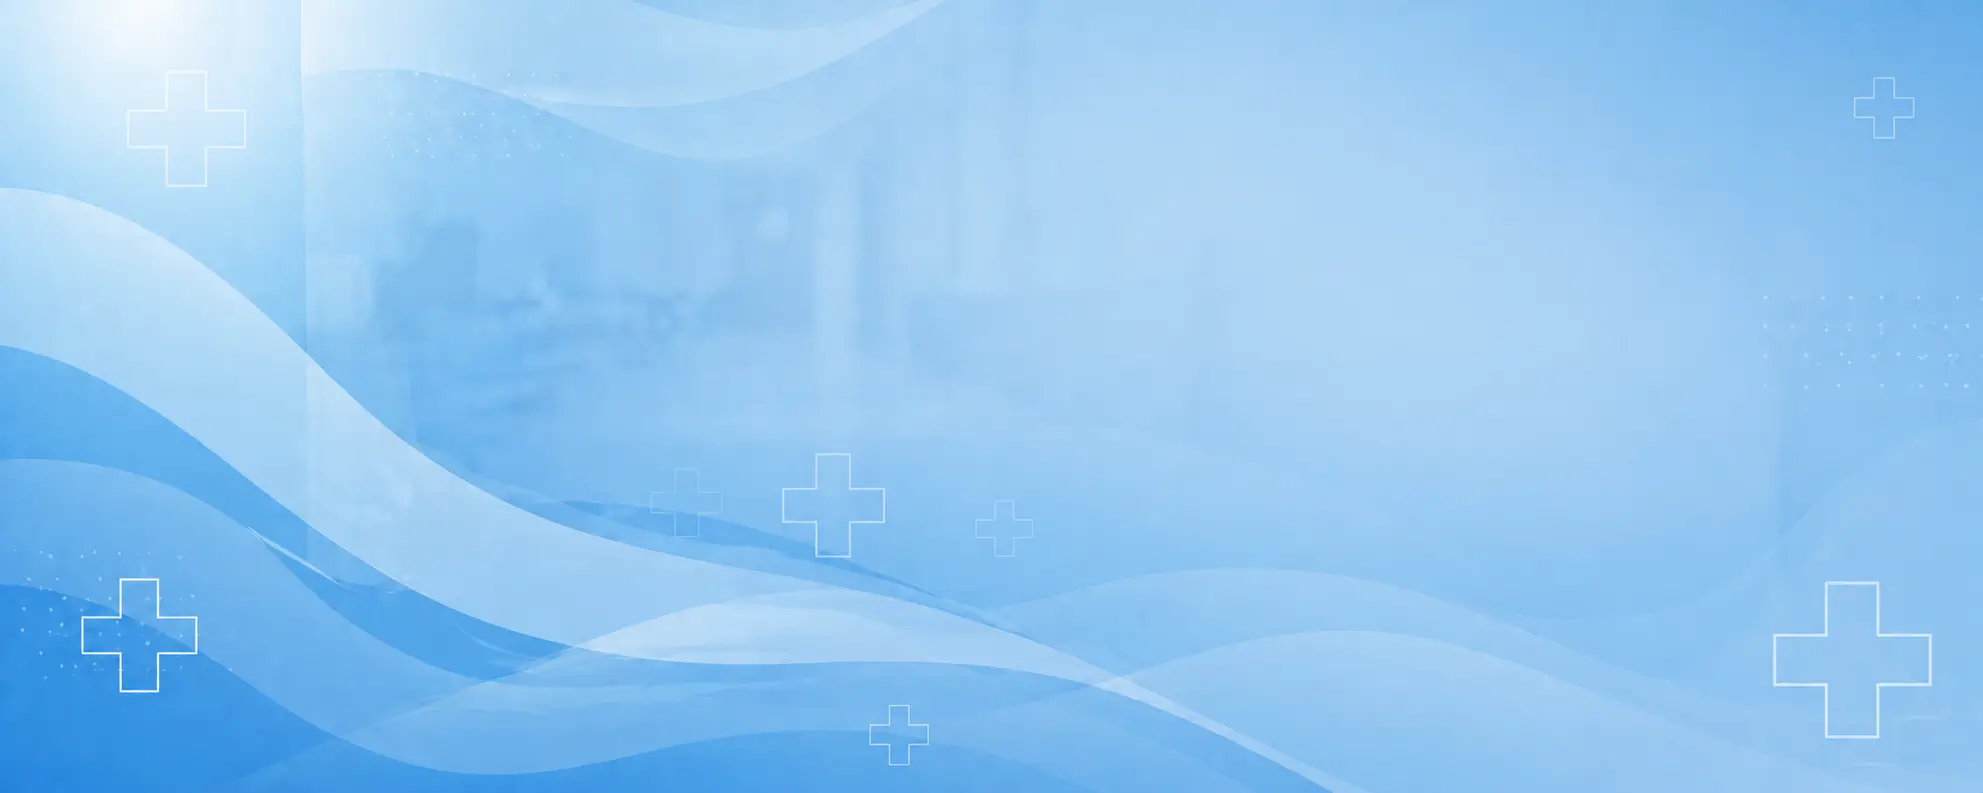
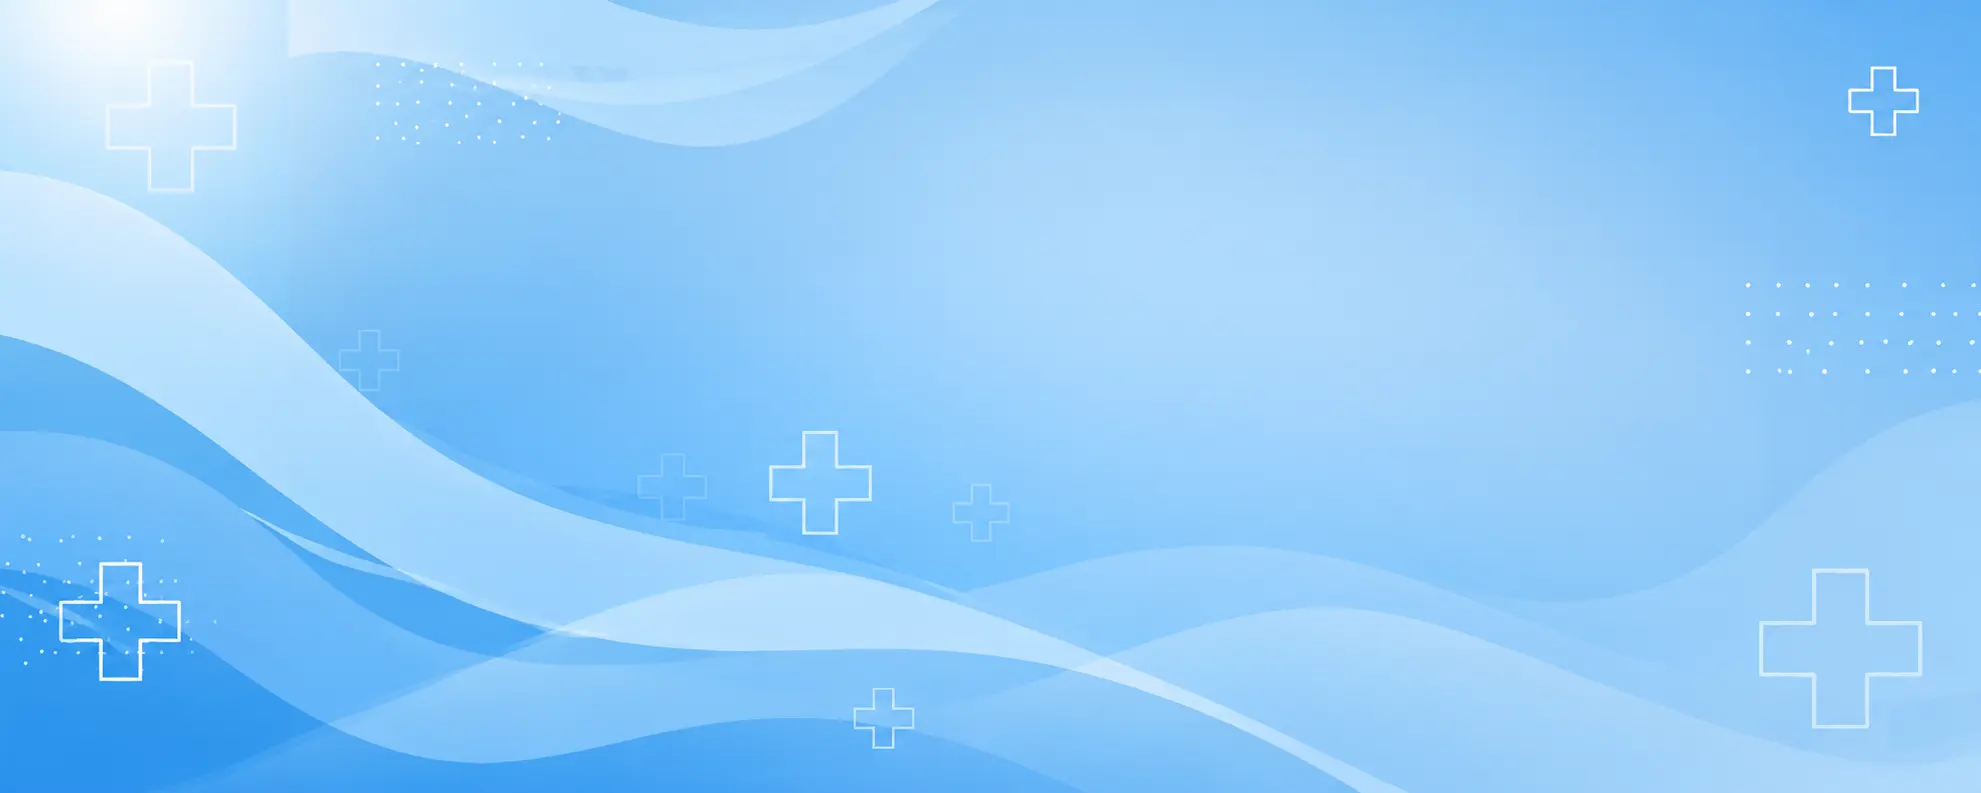
CSS boton inicial + hero3

diff --git a/web/css/home.css b/web/css/home.css
@@ -3,9 +3,9 @@ body{
  }
 
 .navbar{
-    background-color: #ffffff;
-    box-shadow: 0 2px 4px 0 rgba(0, 0, .05);
-    min-height: 100px;
+  background-color: #ffffff;
+  box-shadow: 0 2px 4px 0 rgba(0, 0, .05);
+  min-height: 100px;
 }
 
 .logo{
@@ -14,7 +14,9 @@ body{
 }
 
 #portada{
-    background-image: url(../img/wallpapers/hero1.webp);
+    background:
+        linear-gradient(rgba(0,0,0,0.25), rgba(0,0,0,0.25)),
+        url(../img/wallpapers/hero1.webp);
     background-size: cover;
     color: #ffffff;
     height: 550px;
@@ -22,6 +24,17 @@ body{
     position: relative;
 }
 
+.hero-title span{
+    color: #3090C7;
+}
+
+.hero-title{
+    font-size: 72px;
+    font-weight: 700;
+    line-height: 1.1;
+    margin-bottom: 30px;
+    text-shadow: 2px 2px 4px rgba(0, 0, 0, 0.6);
+}
 
 #portada:before {
     content:'';
@@ -31,7 +44,6 @@ body{
     left: 0;
     right: 0;
     height: 550px;
-    background-color: rgba(0,0,0,0.2);
 }
 
 .btn{
@@ -44,9 +56,28 @@ body{
 }
 
 .btn-light{
-    background-color: #ffffff;
-    color: #1a1a1a;
-    border: 2px solid #ffffff;
+  background-color: #ffffff;
+  color: #1a1a1a;
+  border: 2px solid #ffffff;
+}
+
+.hero-btn{
+    display: inline-block;
+    margin-top: 40px;
+    background: #fff;
+    color: #3090C7;
+    border: 2px solid #3090C7;
+    padding: 18px 45px;
+    border-radius: 50px;
+    font-size: 20px;
+    font-weight: 600;
+    text-decoration: none;
+    transition: 0.3s;
+}
+
+.hero-btn:hover{
+    background: #3090C7;
+    color: #fff;
 }
 
 .linea {
@@ -65,7 +96,7 @@ body{
 }
 
 #portada h2 {
-        text-shadow: 2px 2px 4px rgba(0, 0, 0, 0.6);
+  text-shadow: 2px 2px 4px rgba(0, 0, 0, 0.6);
 	color: #fff;
 	position: relative
 }

diff --git a/web/css/especialitats.css b/web/css/especialitats.css
@@ -50,24 +50,6 @@ body{font-family: 'Titillium Web', sans-serif;
     background-color: #f8f9fa;
 }
 
-#portada{
-    position: relative;
-    background:
-        linear-gradient(rgba(0,0,0,0.6), rgba(0,0,0,0.6)),
-        url(../img/cemavFora.webp);
-    background-size: cover;
-    background-position: center;
-    padding-top: 90px;
-    color: #ffffff;
-    width: 100%;
-    min-height: 250px;
-    overflow: hidden;
-}
-
-#portada:before {
-    display: none;
-}
-
 .content-center{
     max-width: 800px;
     margin: 0 auto 60px auto;
@@ -170,12 +152,17 @@ footer{
 #hero-oftalmologia{
     min-height: 85vh;
     background:
-        linear-gradient(rgba(0,0,0,0.55), rgba(0,0,0,0.55)),
+        linear-gradient(rgba(0,0,0,0.25), rgba(0,0,0,0.25)),
         url(../img/wallpapers/hero3.webp);
     background-size: cover;
     background-position: center;
     color: white;
     padding: 120px 0;
+}
+
+.container p,
+.container h1{
+    text-shadow: 2px 2px 4px rgba(0, 0, 0, 0.6);
 }
 
 .hero-slug{
@@ -205,8 +192,9 @@ footer{
 .hero-btn{
     display: inline-block;
     margin-top: 40px;
-    background: #111;
-    color: white;
+    background: #fff;
+    color: #3090C7;
+    border: 2px solid #3090C7;
     padding: 18px 45px;
     border-radius: 50px;
     font-size: 20px;
@@ -216,8 +204,8 @@ footer{
 }
 
 .hero-btn:hover{
-    background: #074169; /* 3090C7 074169 */
-    color: white;
+    background: #3090C7;
+    color: #fff;
 }
 
 /* SECCIONS */

diff --git a/resources/views/inici/index.blade.php b/resources/views/inici/index.blade.php
@@ -59,9 +59,9 @@
         <div class="row">
             <div class="col-md-12 text-center" id="portada">
                 <h2 style="margin-top:50px;">Acompanyant-te en el teu benestar i procés de rehabilitació</h2>
-                <h1>CENTRE DE MEDICINA AMABLE DE VIC</h1>
+                <h1 class="hero-title">CENTRE DE <span>MEDICINA AMABLE</span> DE <span>VIC</span></h1>
                 <h2>Persones tractant persones</h2>
-                <a href="{{URL::to('/contacte')}}" class="btn btn-light" style="margin-top:60px;">Contacte</a>
+                <a href="{{URL::to('/contacte')}}" class="hero-btn" style="margin-top:60px;">Contacte</a>
             </div>
         </div>
         <div class="row" id="novetat">
